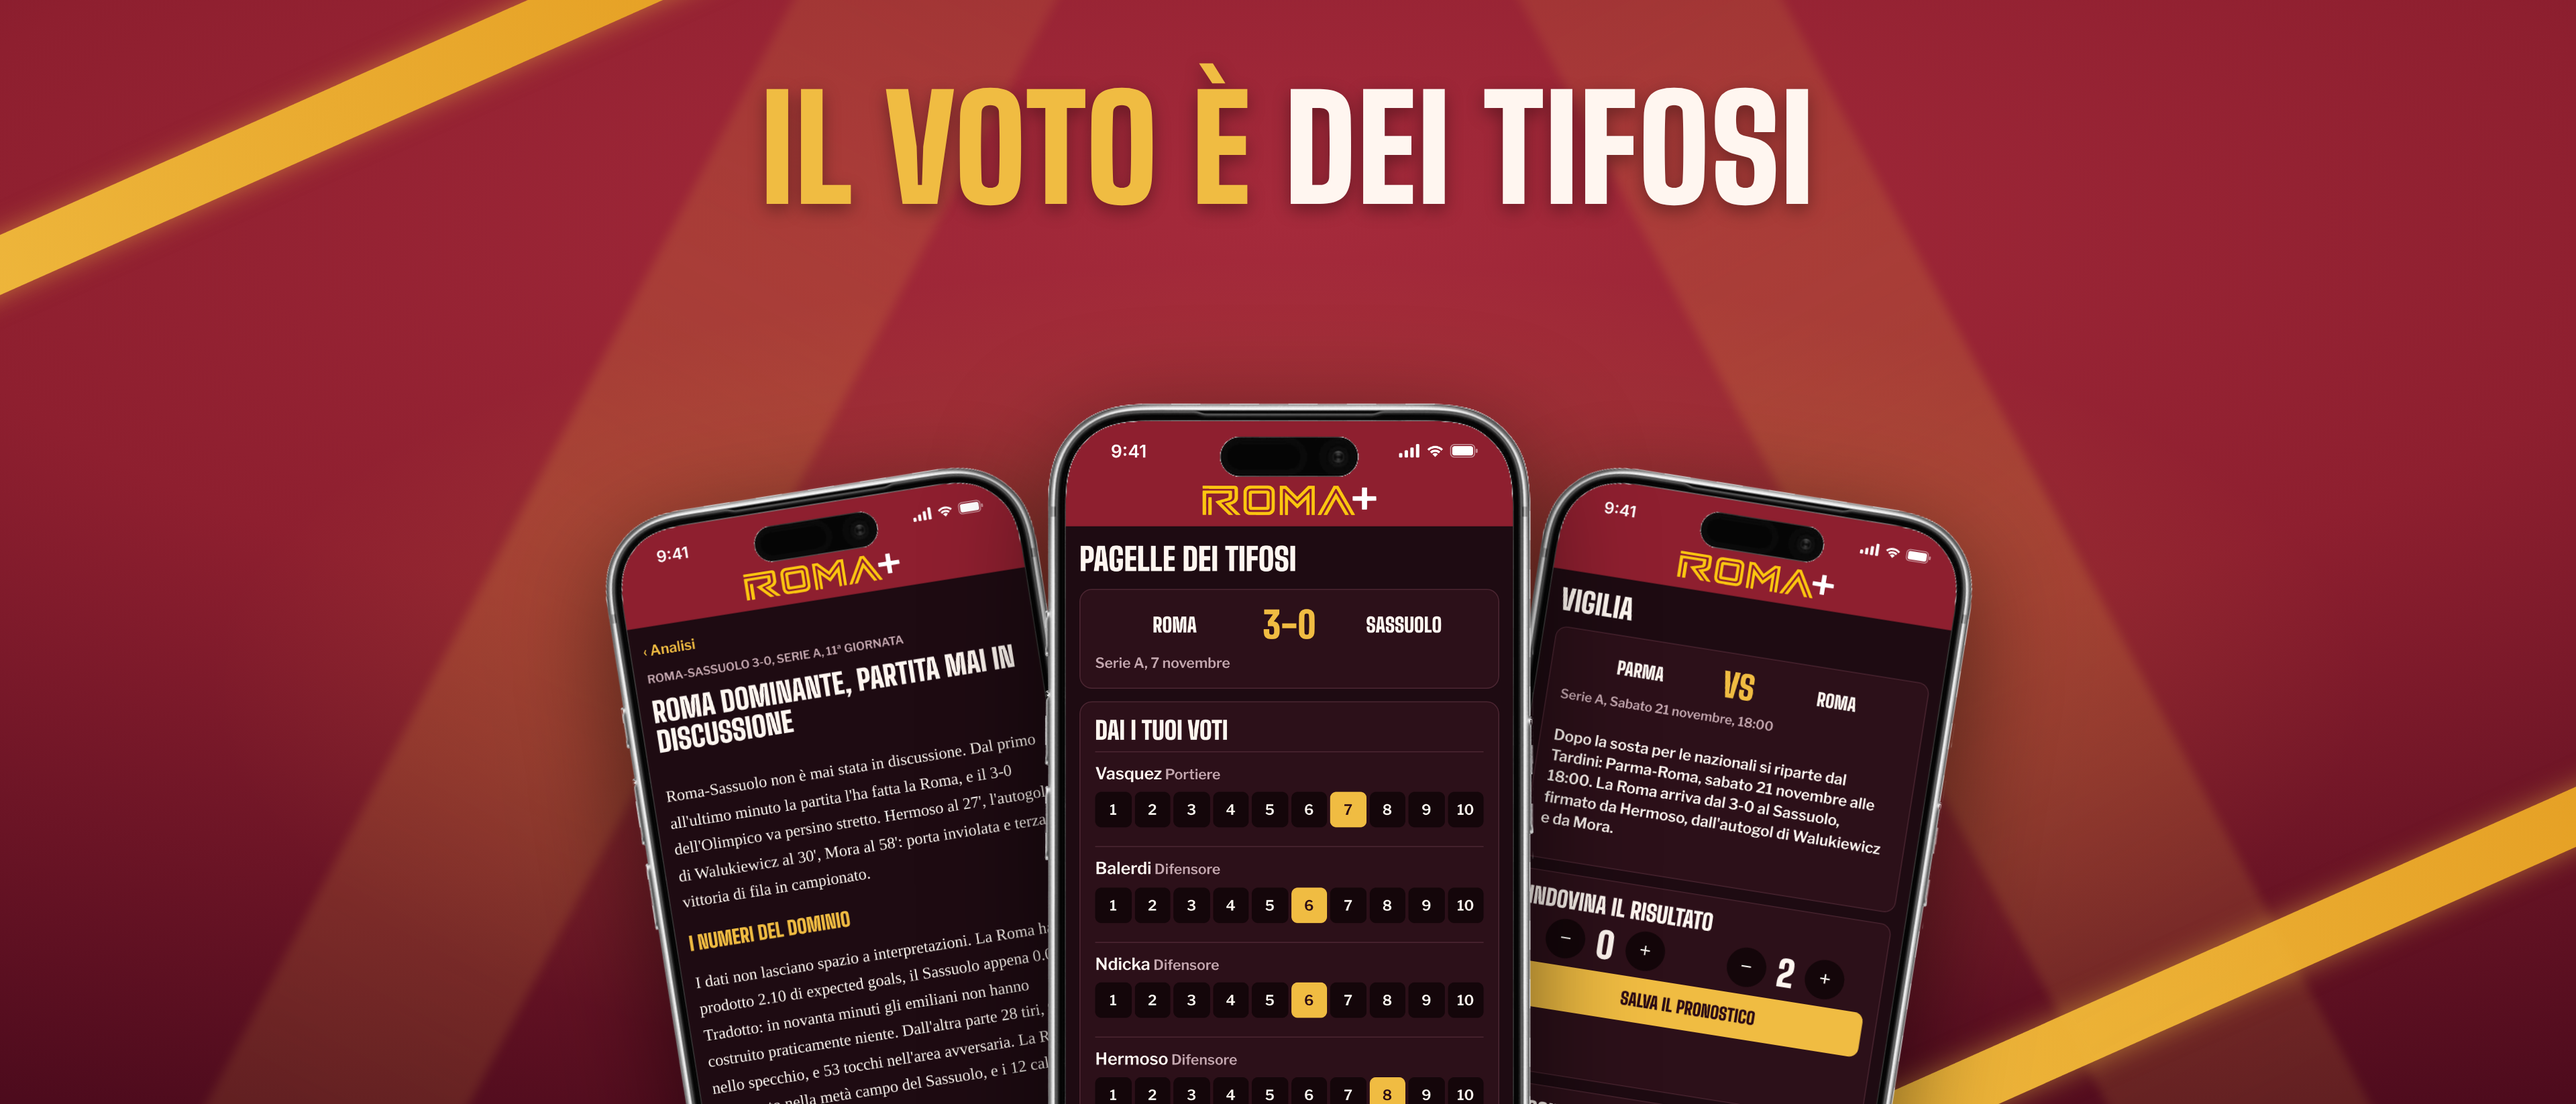
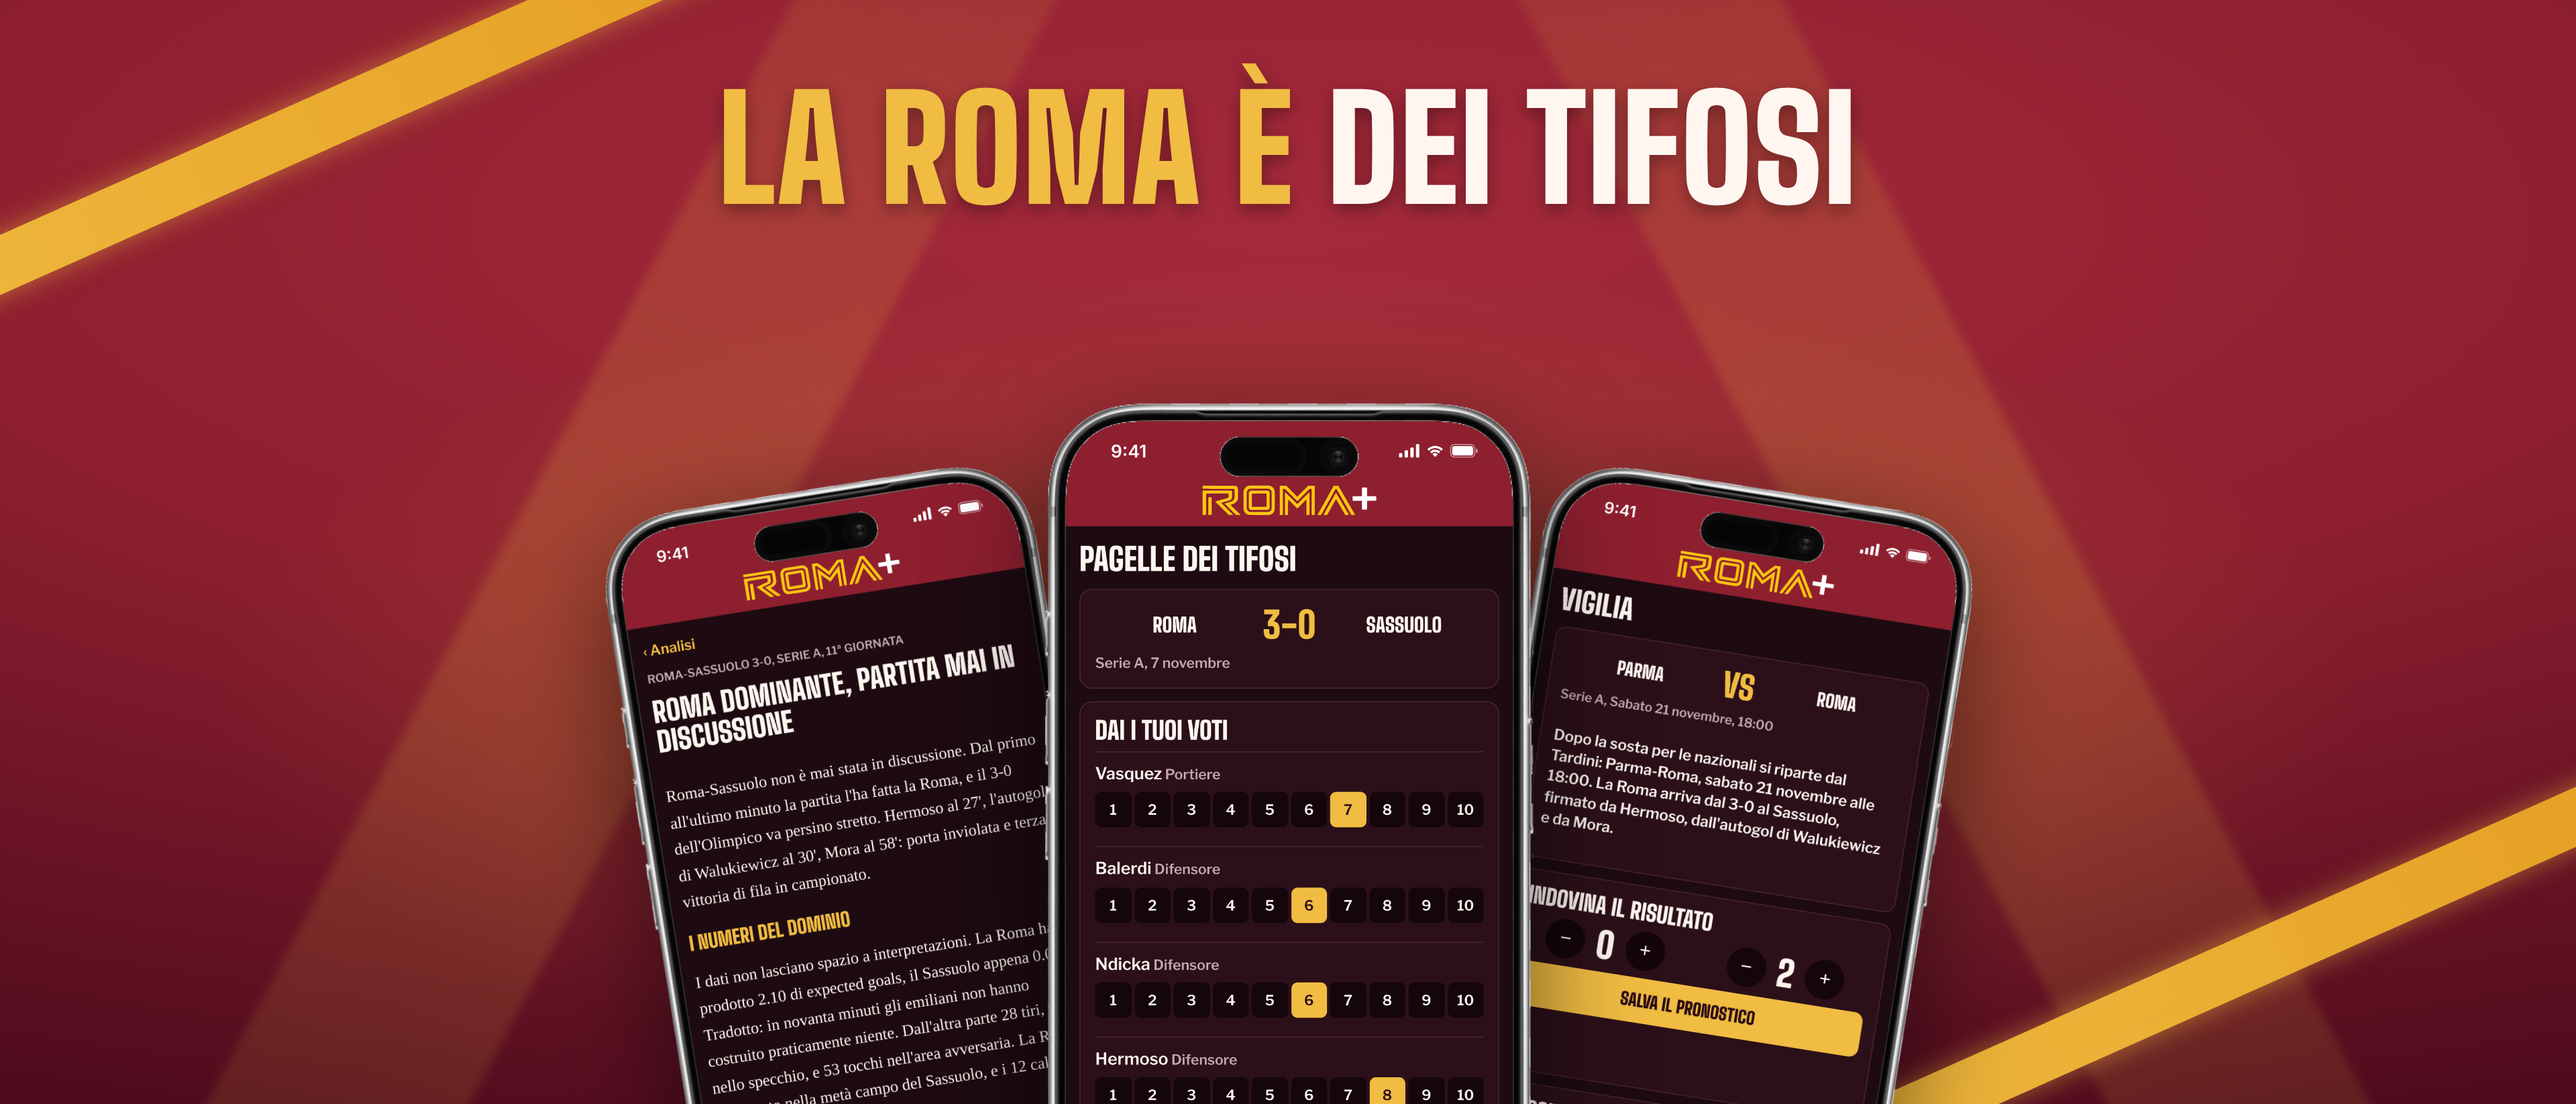
Intestazione App Store: La Roma è dei tifosi
Claude-Session: https://claude.ai/code/session_01Una2R9uecLhhCkUdygHs3U

Changed region(s): [[0.2812, 0.062, 0.7188, 0.2169]]

diff --git a/strumenti/store/intestazione.js b/strumenti/store/intestazione.js
@@ -22,7 +22,7 @@ h1 b{color:#FFF6F0;font-weight:900}
 <div class="fascia" style="left:${-W * .12}px;top:${H * .08}px;transform:rotate(-24deg)"></div>
 <div class="fascia" style="right:${-W * .12}px;bottom:${H * .1}px;transform:rotate(-24deg)"></div>
 <div class="raggio" style="left:${W * .2}px;transform:rotate(28deg);opacity:.35"></div><div class="raggio" style="right:${W * .2}px;transform:rotate(-28deg);opacity:.35"></div>
-<h1>Il voto è <b>dei tifosi</b></h1>
+<h1>La Roma è <b>dei tifosi</b></h1>
 ${tel("4-analisi", -pw * 0.82, -9, ph * 0.08, 1, 0.9)}${tel("3-vigilia", pw * 0.82, 9, ph * 0.08, 1, 0.9)}${tel("1-pagelle", 0, 0, 0, 2, 1)}`;
 };
 (async () => {
